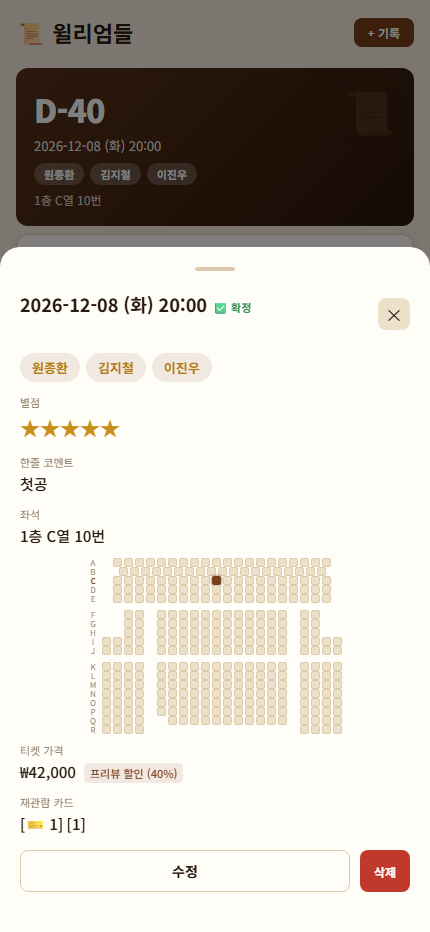
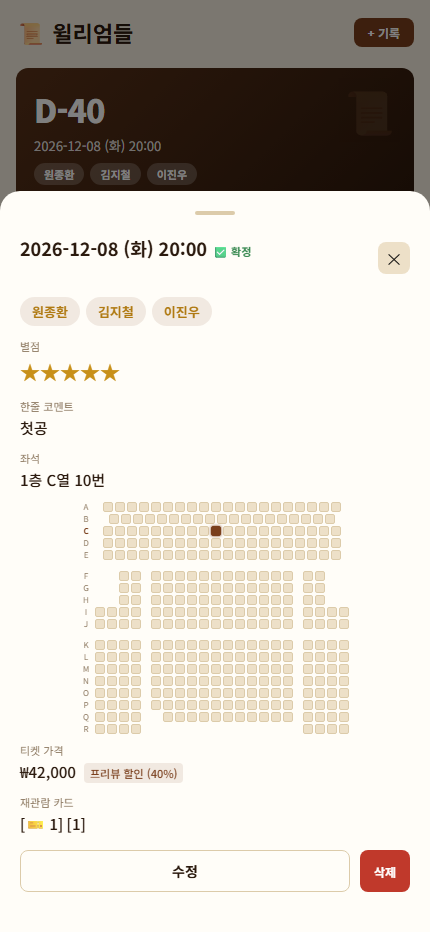
미니 좌석도 폭 맞춤 · 재관람카드 안내 정리
- 미니 좌석도 칸 크기를 화면 폭에서 계산해 좁은 기기에서도 가로 스크롤이 없게 (280px 까지 확인)
- 미니 좌석도 행 간격이 따옴표 문자열 안의 ${G} 라 적용되지 않던 것 수정
- 새 카드 패널 혜택 박스가 FATED 보상(포토카드 9종 등) 그대로였다 → 3·5·7회 보상으로
- 도장판 요약 한 줄에서 칸수와 괄호 설명을 빼 줄바꿈 없게

Changed region(s): [[0.0, 0.1867, 1.0, 0.809], [0.393, 0.3734, 0.4535, 0.4045]]

diff --git a/index.html b/index.html
@@ -747,19 +747,25 @@
       <div style="display:flex;gap:6px;margin-bottom:8px;">
         <div style="flex:1;text-align:center;background:var(--bg1);border-radius:8px;padding:8px 4px;">
           <div style="font-size:11px;color:var(--text3);margin-bottom:4px;">3회</div>
-          <div style="font-weight:700;font-size:13px;">🎴 포토카드</div>
-          <div style="font-size:10px;color:var(--text3);">9종</div>
+          <div style="font-weight:700;font-size:13px;">🎟 40% 할인권</div>
+          <div style="font-size:10px;color:var(--text3);">2매</div>
+        </div>
+        <div style="flex:1;text-align:center;background:var(--bg1);border-radius:8px;padding:8px 4px;">
+          <div style="font-size:11px;color:var(--text3);margin-bottom:4px;">5회</div>
+          <div style="font-weight:700;font-size:13px;">📸 폴라로이드</div>
+          <div style="font-size:10px;color:var(--text3);">캐스트 지정 1매</div>
         </div>
         <div style="flex:1;text-align:center;background:var(--bg1);border-radius:8px;padding:8px 4px;border:1.5px solid var(--accent);">
           <div style="font-size:11px;color:var(--text3);margin-bottom:4px;">7회</div>
-          <div style="font-weight:700;font-size:13px;color:var(--accent);">📸 폴라로이드 + 💿 OST</div>
-          <div style="font-size:10px;color:var(--text3);">지정 사진 1장 · 실황 OST</div>
+          <div style="font-weight:700;font-size:13px;color:var(--accent);">💿 미니 실황 OST</div>
+          <div style="font-size:10px;color:var(--text3);">교환권 · 카드 지참</div>
         </div>
       </div>
       <div style="font-size:11px;color:var(--text2);line-height:1.7;">
-        유료 관람 회차마다 도장 1개. 당일 회차만 적립되며 지난 회차는 소급되지 않습니다.<br>
-        여러 장의 카드는 합산할 수 없어 7칸을 넘기면 새 카드로 이어집니다.<br>
-        <span style="color:var(--text3);">⏰ MD부스 · 공연 시작 1시간 전 ~ 시작 10분 전 / 종료 후 10분까지</span>
+        첫 관람부터 1회 공연당 도장 1개. 동일 회차·지난 공연은 적립되지 않습니다.<br>
+        서로 다른 카드는 합산할 수 없어 7칸을 넘기면 새 카드로 이어집니다.<br>
+        40% 할인권 사용기간 12/11~2/21 · 카드 발급은 2/28까지<br>
+        <span style="color:var(--text3);">⏰ MD부스 · 공연 시작 1시간 전 ~ 10분 전 / 종료 후 약 10분까지</span>
       </div>
     </div>
     <div class="form-group">
@@ -2025,8 +2031,13 @@ function buildMiniSeat(floor, rowKey, num) {
   const plan = SEAT_PLAN[floor];
   if (!plan) return '';
   // 히트맵과 같은 FLOOR_ZONES 를 쓴다 (따로 두면 두 좌석도가 어긋난다)
-  const C = 9, G = 2, ZG = 11;
+  // 화면 폭에 맞춰 칸 크기를 정한다 — 좁은 기기에서도 가로 스크롤이 생기지 않게.
+  // 패널 안쪽 여백 ~70px, 열 라벨 16px 을 빼고 좌·중·우 칸 수 + 구역 간격 2개가 들어가야 한다.
+  const G = 2, ZG = 8;
   const MAX  = FLOOR_ZONES[floor];
+  const cols = MAX.l + MAX.m + MAX.r;
+  const avail = Math.min(window.innerWidth || 480, 480) - 70 - 16;
+  const C = Math.max(6, Math.min(10, Math.floor((avail - 2 * ZG) / cols) - G));
   const lead = floorLeadPx(floor, C, G, ZG);
   const seatNum = parseInt(num);
 
@@ -2050,7 +2061,7 @@ function buildMiniSeat(floor, rowKey, num) {
     return h;
   }
 
-  let html = '<div style="overflow-x:auto;margin:8px 0;"><div style="display:flex;flex-direction:column;gap:${G}px;width:max-content;margin:0 auto;">';
+  let html = `<div style="overflow-x:auto;margin:8px 0;"><div style="display:flex;flex-direction:column;gap:${G}px;width:max-content;margin:0 auto;">`;
   let prevRow = null;
   plan.rows.forEach(r => {
     if (prevRow && (plan.gapAfter || []).includes(prevRow)) html += '<div style="height:7px;"></div>';
@@ -3064,7 +3075,7 @@ function renderStampBoards() {
   if (allDone) {
     html += `<div style="text-align:center;padding:12px 0 8px;">
       <button class="btn btn-primary" onclick="openAddStampBoard()" style="width:100%;padding:14px;">🆕 새 재관람카드 시작하기</button>
-      <p style="font-size:12px;color:var(--text3);margin-top:8px;">${DEFAULT_SLOTS}칸 · ${defaultMilestones().map(m => `${m.at}회:${m.reward}`).join(' · ')}</p>
+      <p style="font-size:12px;color:var(--text3);margin-top:8px;">${defaultMilestones().map(m => `${m.at}회:${m.reward.replace(/\s*\(.*?\)/, '')}`).join(' · ')}</p>
     </div>`;
   }
   if (!boards.length) { document.getElementById('stamp-boards-list').innerHTML = html; return; }

diff --git a/_shots.html b/_shots.html
@@ -72,6 +72,7 @@ function seed(W) {
 }
 
 const frame = document.getElementById('app');
+if (Q.get('w')) frame.style.width = Q.get('w') + 'px';   // 좁은 기기 폭 확인용
 frame.addEventListener('load', () => {
   const W = frame.contentWindow;
   const start = Date.now();
@@ -103,6 +104,8 @@ frame.addEventListener('load', () => {
       document.documentElement.setAttribute('data-theme', THEME);
     }
 
+    // 새 도장판 패널 (혜택 안내 확인용)
+    if (TAB === 'newcard') { W.openAddStampBoard(); document.title = 'SHOT newcard'; return; }
     // 기록 입력 폼 (배역 배치 확인용)
     if (TAB === 'form') { W.openAddRecord('2026-12-12'); document.title = 'SHOT form'; return; }
 
@@ -113,6 +116,11 @@ frame.addEventListener('load', () => {
       const target = W.getRecords()[0];   // 단층 극장
       W.openDetail(target.id);
       document.title = 'SHOT detail';
+      // ?measure=1 — 미니 좌석도 스크롤 여부 (scrollWidth/clientWidth) 를 제목에 남긴다
+      if (Q.get('measure')) setTimeout(() => {
+        const box = [...W.document.querySelectorAll('div')].find(d => d.style.overflowX === 'auto' && d.innerHTML.includes('flex-direction:column'));
+        document.title = box ? `MEASURE ${box.scrollWidth}/${box.clientWidth}` : 'MEASURE none';
+      }, 300);
       return;
     }
 
